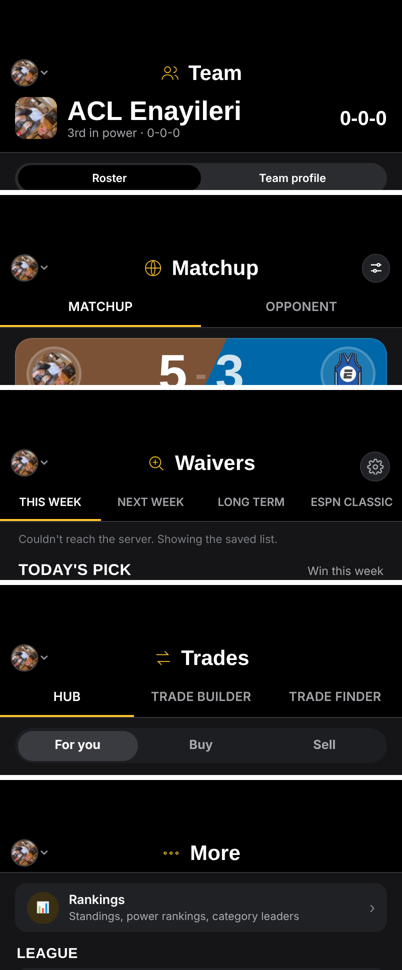
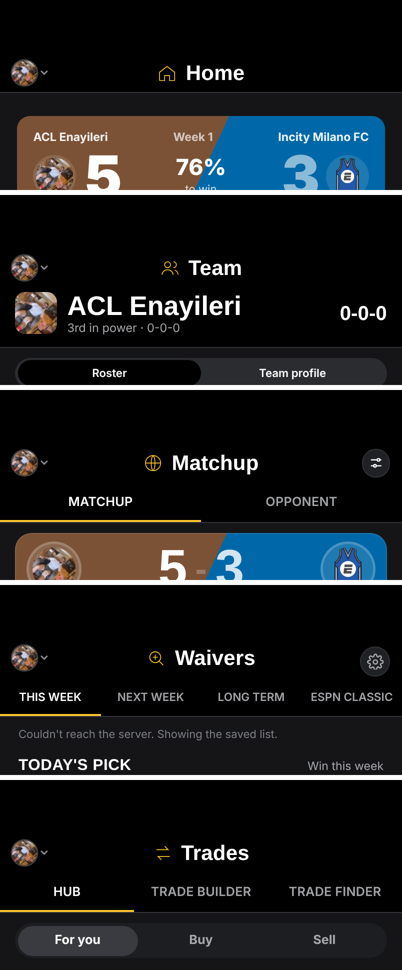
Home header shows the new design right at launch
Claude-Session: https://claude.ai/code/session_01Bze7554zYTgci3mfzKEDgc

diff --git a/classic.html b/classic.html
@@ -2306,7 +2306,7 @@ function fpLeagues(){const X=window.HDX,D=X.D;let ov=document.getElementById("fp
 function fpHead(el){const X=window.HDX;if(!X)return;const h=el.querySelector(".hdstk");if(!h||h.dataset.fpd)return;h.dataset.fpd=1;h.classList.add("fphd");
  const D=X.D,NM={home:"Home",team:"Team",matchup:"Matchup",waivers:"Waivers",trades:"Trades",more:"More"};
  const row=document.createElement("div");row.className="fprow";
- const ic=document.querySelector('#tabs button[data-tab="'+X.TAB+'"] svg');if(ic){const c=ic.cloneNode(true);c.removeAttribute("style");c.setAttribute("class","fpic");row.appendChild(c)}
+ const addIc=(n)=>{const ic=document.querySelector('#tabs button[data-tab="'+X.TAB+'"] svg');if(ic){const c=ic.cloneNode(true);c.removeAttribute("style");c.setAttribute("class","fpic");row.insertBefore(c,row.querySelector(".fptt"))}else if(n<20)setTimeout(()=>addIc(n+1),150)};addIc(0);
  const tt=document.createElement("span");tt.className="fptt";tt.textContent=NM[X.TAB]||"";row.appendChild(tt);
  const act=document.createElement("div");act.className="fpact";row.appendChild(act);const actL=document.createElement("div");actL.className="fpact l";row.appendChild(actL);
  const at=h.querySelector(".ahtop");if(at)at.classList.add("fphide");const lt=h.querySelector(".lt");
@@ -2371,6 +2371,8 @@ function ui(){if(!tune()){if(bar)bar.hidden=true;return}
 function toggle(btn){const on=!tune();try{localStorage.setItem("fp_tune",on?"1":"0")}catch(e){}const sw=btn&&btn.querySelector(".fpzsw");if(sw)sw.classList.toggle("on",on);ui()}
 setTimeout(()=>apply(),400);addEventListener("resize",()=>setTimeout(()=>apply(),150));
 return{apply,toggle,ui}})();
+
+;(function fpBoot(n){const go=()=>{const v=[...document.querySelectorAll("#views .view")].pop();if(!window.HDX||!v||!v.querySelector(".hdstk")){if(n<60)setTimeout(()=>fpBoot(n+1),100);return}try{fpHead(v)}catch(e){}try{window.FPZ&&FPZ.apply(v)}catch(e){}};go()})(0);
 </script><style>#views .whpick .lbl{flex-wrap:nowrap!important;gap:5px!important;padding-right:10px!important;margin-bottom:8px!important;white-space:nowrap}
 #views .whpick .lbl .lbt{font-size:9px!important;letter-spacing:.02em!important}
 #views .whpick .lbl .pgr i{width:4px!important}#views .whpick .lbl .pgr i.on{width:10px!important}

diff --git a/index.html b/index.html
@@ -2358,7 +2358,7 @@ function fpLeagues(){const X=window.HDX,D=X.D;let ov=document.getElementById("fp
 function fpHead(el){const X=window.HDX;if(!X)return;const h=el.querySelector(".hdstk");if(!h||h.dataset.fpd)return;h.dataset.fpd=1;h.classList.add("fphd");
  const D=X.D,NM={home:"Home",team:"Team",matchup:"Matchup",waivers:"Waivers",trades:"Trades",more:"More"};
  const row=document.createElement("div");row.className="fprow";
- const ic=document.querySelector('#tabs button[data-tab="'+X.TAB+'"] svg');if(ic){const c=ic.cloneNode(true);c.removeAttribute("style");c.setAttribute("class","fpic");row.appendChild(c)}
+ const addIc=(n)=>{const ic=document.querySelector('#tabs button[data-tab="'+X.TAB+'"] svg');if(ic){const c=ic.cloneNode(true);c.removeAttribute("style");c.setAttribute("class","fpic");row.insertBefore(c,row.querySelector(".fptt"))}else if(n<20)setTimeout(()=>addIc(n+1),150)};addIc(0);
  const tt=document.createElement("span");tt.className="fptt";tt.textContent=NM[X.TAB]||"";row.appendChild(tt);
  const act=document.createElement("div");act.className="fpact";row.appendChild(act);const actL=document.createElement("div");actL.className="fpact l";row.appendChild(actL);
  const at=h.querySelector(".ahtop");if(at)at.classList.add("fphide");const lt=h.querySelector(".lt");
@@ -2423,6 +2423,8 @@ function ui(){if(!tune()){if(bar)bar.hidden=true;return}
 function toggle(btn){const on=!tune();try{localStorage.setItem("fp_tune",on?"1":"0")}catch(e){}const sw=btn&&btn.querySelector(".fpzsw");if(sw)sw.classList.toggle("on",on);ui()}
 setTimeout(()=>apply(),400);addEventListener("resize",()=>setTimeout(()=>apply(),150));
 return{apply,toggle,ui}})();
+
+;(function fpBoot(n){const go=()=>{const v=[...document.querySelectorAll("#views .view")].pop();if(!window.HDX||!v||!v.querySelector(".hdstk")){if(n<60)setTimeout(()=>fpBoot(n+1),100);return}try{fpHead(v)}catch(e){}try{window.FPZ&&FPZ.apply(v)}catch(e){}};go()})(0);
 </script><style>#views .whpick .lbl{flex-wrap:nowrap!important;gap:5px!important;padding-right:10px!important;margin-bottom:8px!important;white-space:nowrap}
 #views .whpick .lbl .lbt{font-size:9px!important;letter-spacing:.02em!important}
 #views .whpick .lbl .pgr i{width:4px!important}#views .whpick .lbl .pgr i.on{width:10px!important}
